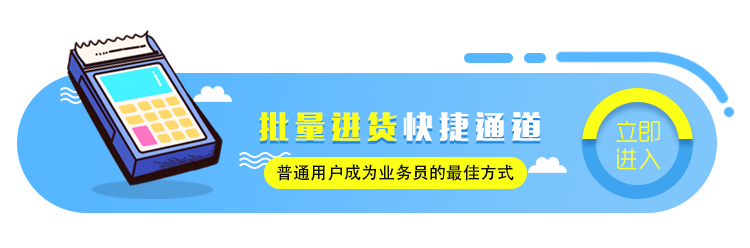
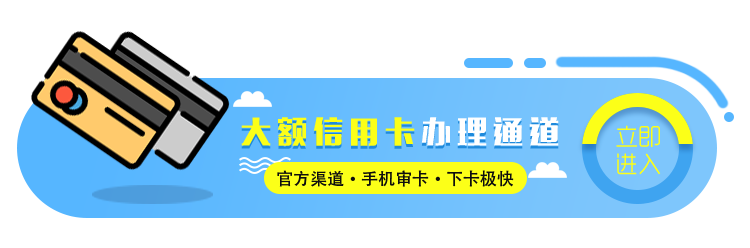
gengxin

diff --git a/src/views/freezeprogress/index.vue b/src/views/freezeprogress/index.vue
@@ -29,49 +29,62 @@
         </div>
         <!-- 列表  -->
         <div class="freezeProgressListView">
-          <div class="freezeProgressListItem completed" v-for="item in freezeData"  v-bind:key="item.surplus" style="display:block;">
-            <!-- completed -->
-            <!-- 盒子  -->
-            <div class="freezeProgressBox">
-              <!-- expired -->
-              <!-- 三角 -->
-              <div class="leftArrIcon"></div>
-              <!--  解冻状态  -->
-              <img v-if='item.isThaw == "已解冻"' src="../../assets/images/completedIcon.png" />
-              <img v-if='item.isThaw == "已过期"' src="../../assets/images/expiredIcon.png" />
-              <!--  解冻金额与剩余时间  -->
-              <div class="moneyAndTime">
-                <div class="line_right">
-                  <div>
-                    {{item.thawMoney}} 
-                    <span>元</span>
+            <div  
+              v-for="item in freezeData" v-bind:key="item.surplus"
+              :class="[item.isThaw == '已解冻' ? 'completed' : '' , 'freezeProgressListItem']"
+            >
+              <!-- completed -->
+              <!-- 盒子  -->
+              <div :class="[item.isThaw=='已过期' ? 'expired' : '' , 'freezeProgressBox']">
+                <!-- expired -->
+                <!-- 三角 -->
+                <div class="leftArrIcon"></div>
+                <!--  解冻状态  -->
+                <img
+                  v-if="item.isThaw == '已解冻'"
+                  src="../../assets/images/completedIcon.png"
+                />
+                <img
+                  v-if="item.isThaw == '已过期'"
+                  src="../../assets/images/expiredIcon.png"
+                />
+                <!--  解冻金额与剩余时间  -->
+                <div class="moneyAndTime">
+                  <div class="line_right">
+                    <div>
+                      {{ item.thawMoney }}
+                      <span>元</span>
+                    </div>
+                    <span>解冻金额</span>
                   </div>
-                  <span>解冻金额</span>
-                </div>
-                <div>
-                  <div>
-                    {{item.surplus}}
-                    <span>天</span>
+                  <div v-if = "item.isThaw == '待解冻'">
+                    <div>
+                      {{ item.surplus }}
+                      <span>天</span>
+                    </div>
+                    <span>剩余天数</span>
                   </div>
-                  <span>剩余天数</span>
+                  <div v-if="item.isThaw != '待解冻'">
+                    <span style="padding-top:14px; font-weight:bold;">{{
+                      item.isThaw
+                    }}</span>
+                  </div>
                 </div>
-                <div v-if='item.isThaw != "待解冻"'>
-                  <span style="padding-top:14px; font-weight:bold;">{{item.isThaw}}</span>
+                <!-- 条件与当前刷卡金额  -->
+                <div class="conditionsAndSum">
+                  <span class="line_top">满足条件：{{ item.conditions }}</span>
+                  <span>当前刷卡：{{ item.nowTotalMoney }}</span>
+                  <span class="completedItemTipInfo"
+                    >{{ item.thawMoney }}元已转入余额!</span
+                  >
+                  <span class="expiredItemTipInfo"
+                    >{{ item.thawMoney }}元已从待解冻金额中扣除！</span
+                  >
                 </div>
-              </div>
-              <!-- 条件与当前刷卡金额  -->
-              <div class="conditionsAndSum">
-                <span class="line_top">满足条件：{{item.conditions}}</span>
-                <span>当前刷卡：{{item.nowTotalMoney}}</span>
-                <span class="completedItemTipInfo">{{item.thawMoney}}元已转入余额!</span>
-                <span class="expiredItemTipInfo"
-                  >{{item.thawMoney}}元已从待解冻金额中扣除！</span
-                >
               </div>
             </div>
-          </div>
           <!-- 未激活机器状态  -->
-          <div class="noPosDataStatus" style="display:none;">
+          <div class="noPosDataStatus" v-if = "noPosDataStatus">
             <img src="../../assets/images/noPosDataIcon.png" />
             <span>您还没有领取机器，立即去领取</span>
             <router-link to="/mall">机具商城</router-link>
@@ -82,13 +95,14 @@
   </div>
 </template>
 <script>
-getfreezeList
-import { getfreezeList } from "@/api/freezeprogress"
-import response from '@/assets/js/response.js'
+getfreezeList;
+import { getfreezeList } from "@/api/freezeprogress";
+import response from "@/assets/js/response.js";
 export default {
   data() {
     return {
-      freezeData:{},
+      noPosDataStatus:false,
+      freezeData: {},
       queryData: {
         requestType: "thaw",
         requestKeywords: "thawlist",
@@ -99,16 +113,19 @@ export default {
     };
   },
   methods: {
-      getfreezeListFn(){
-       getfreezeList(this.queryData).then(res => {
-         console.log(res)
-         if(res.data.responseStatus === 1){
-            this.freezeData = res.data.data;
-         }
-       })   
-      }
+    getfreezeListFn() {
+      getfreezeList(this.queryData).then(res => {
+        console.log(res);
+        if (res.data.responseStatus === 1) {
+          this.noPosDataStatus = false;
+          this.freezeData = res.data.data;
+        }else{
+          this.noPosDataStatus = true;
+        }
+      });
+    }
   },
-  created(){
+  created() {
     this.getfreezeListFn();
   }
 };

diff --git a/src/views/mall/mall_list.vue b/src/views/mall/mall_list.vue
@@ -48,7 +48,7 @@
     </div>
     <div class="interval"></div>
     <!-- 批量进货 入口 开始 -->
-    <a class="stockChannelImg" href="javascript:;">
+    <a class="stockChannelImg" :href="creditCard">
       <img src="@/assets/images/stockChannelImg.png" alt="批量进货通道" />
     </a>
     <!-- 批量进货 入口 结束 -->
@@ -89,6 +89,7 @@ import {
 export default {
   data() {
     return {
+      creditCard:"https://m.hhrcard.com/credit/miniprogram/copartner/bankList?invitecode=52832966&oas=1",
       current: 0,
       bannerLength: 0,
       queryData: {

diff --git a/src/views/about/index.vue b/src/views/about/index.vue
@@ -40,10 +40,10 @@ export default {
   methods: {
     aboutFn() {
       getAbout(this.queryData).then(res => {
-        //  console.log(res);
+         console.log(res);
         if (res.data.responseStatus === 1) {
           this.contentData = res.data.content;
-          if (res.data.content == "<p>暂无数据</p>") {
+          if (res.data.content == "<p>暂无数据</p>" || res.data.content == "") {
             this.contentData = "";  
             this.isData = true;
           }

diff --git a/main.js b/main.js
@@ -1,0 +1,3 @@
+fdksajfjdsaljfkds
+Exit
+	
